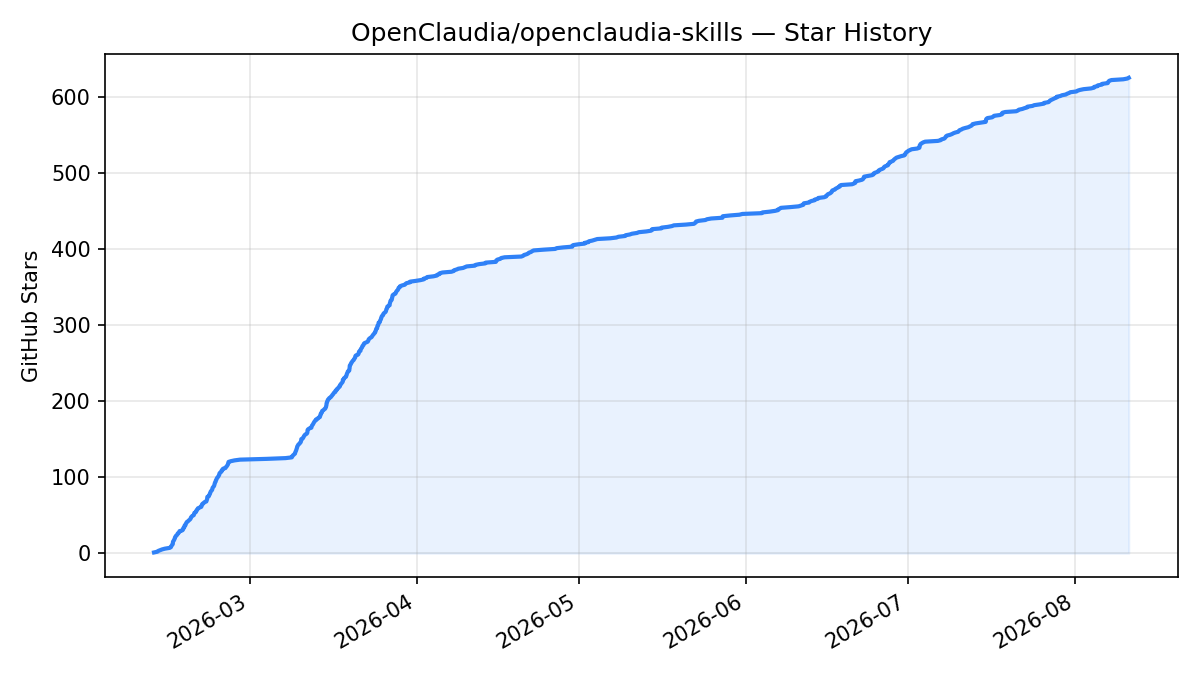
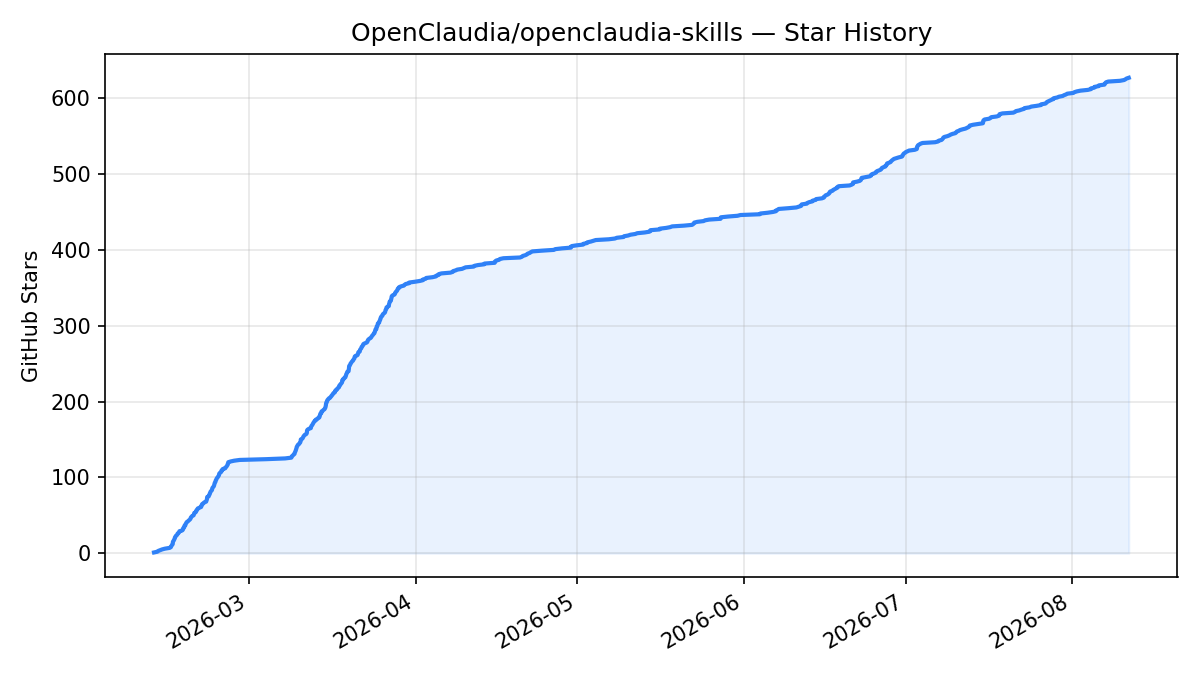
readme: refresh star chart (627 stars)

diff --git a/README.md b/README.md
@@ -333,7 +333,7 @@ MIT — see [LICENSE](LICENSE)
 
 ![Star History Chart](assets/star-history.png)
 
-<sub>Updated 2026-08-10. GitHub [restricted the stargazers API](https://github.blog/changelog/2026-06-30-upcoming-access-restrictions-to-public-api-endpoints-and-ui-views/) in June 2026, so the live star-history.com badge no longer renders; this chart is generated from the repo's own star data.</sub>
+<sub>Updated 2026-08-11. GitHub [restricted the stargazers API](https://github.blog/changelog/2026-06-30-upcoming-access-restrictions-to-public-api-endpoints-and-ui-views/) in June 2026, so the live star-history.com badge no longer renders; this chart is generated from the repo's own star data.</sub>
 
 ---
 
